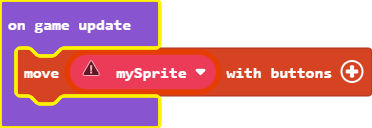
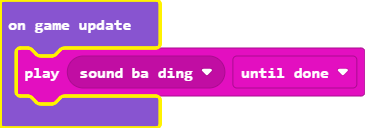
Update main.blocks, main.ts

diff --git a/main.ts b/main.ts
@@ -1,4 +1,3 @@
 game.onUpdate(function () {
-    let mySprite: Sprite = null
-    controller.moveSprite(mySprite)
+    music.play(music.melodyPlayable(music.baDing), music.PlaybackMode.UntilDone)
 })
